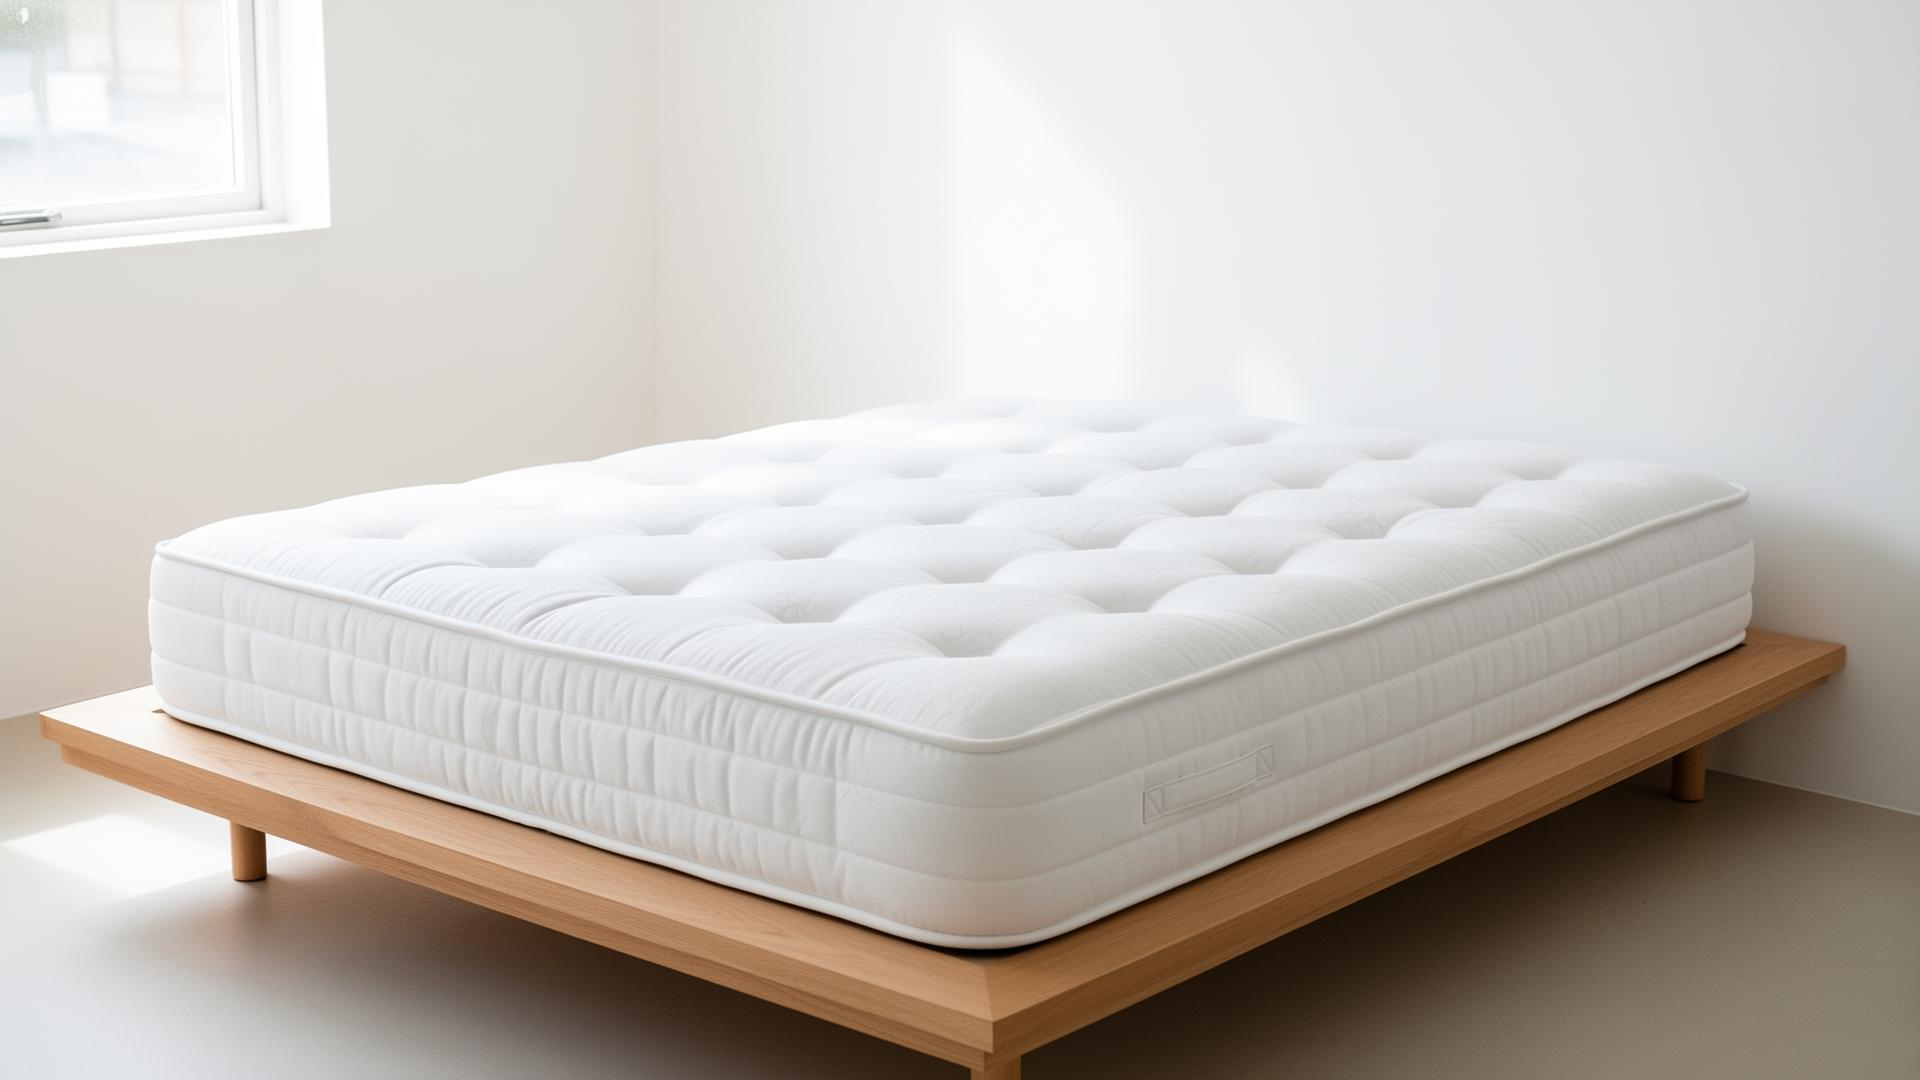
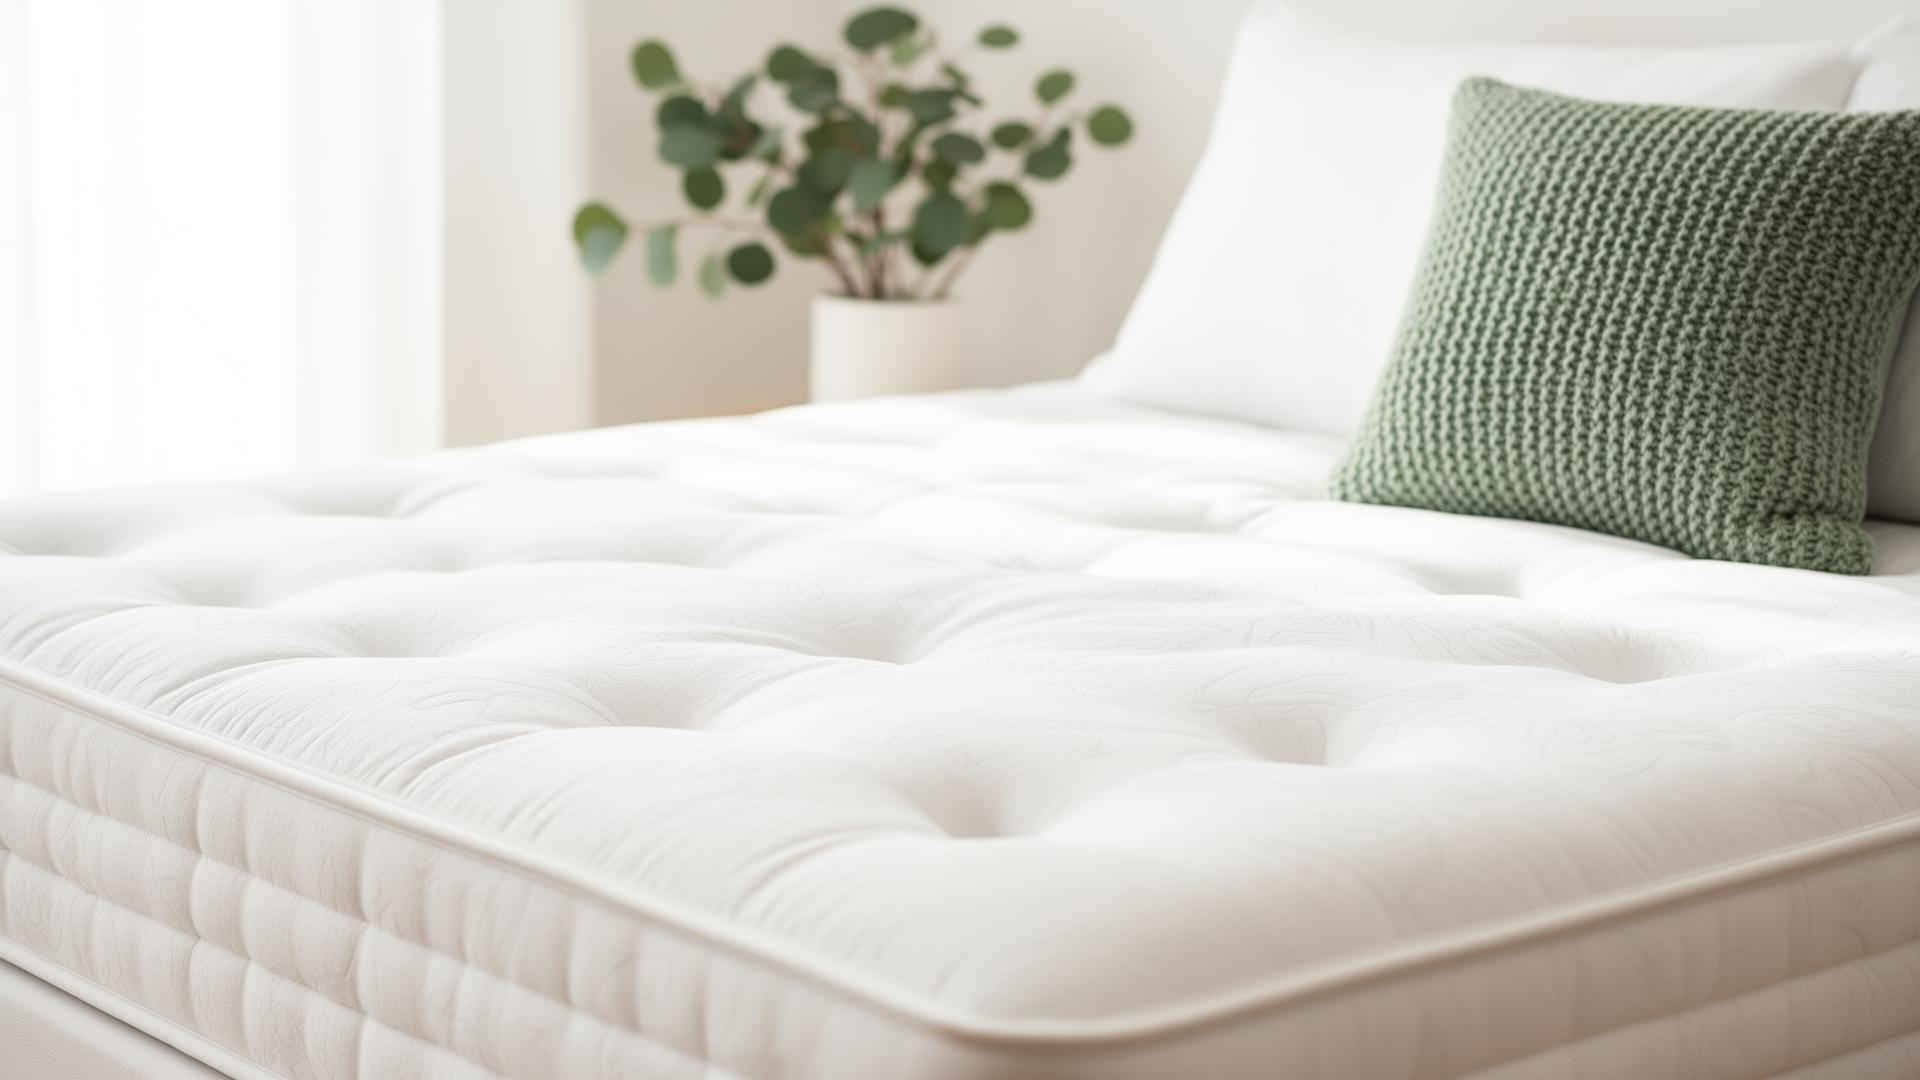
Changes

diff --git a/src/routes/index.tsx b/src/routes/index.tsx
@@ -82,10 +82,10 @@ function PublicBookingPage() {
       <SiteHeader />
 
       {/* Hero */}
-      <section className="relative overflow-hidden">
+      <section className="relative overflow-hidden pb-10">
         <div className="mx-auto grid max-w-3xl gap-6 px-4 pt-2 pb-8 sm:pt-4">
           <div className="relative">
-            <h1 className="text-4xl font-extrabold leading-[1.05] tracking-tight text-foreground sm:text-5xl">
+            <h1 className="text-5xl font-black leading-[1.02] tracking-[-0.03em] text-[color:var(--brand-green)] sm:text-6xl">
               FreshDream Booking
             </h1>
             <p className="mt-3 max-w-md text-base leading-relaxed text-muted-foreground sm:text-lg">
@@ -95,7 +95,7 @@ function PublicBookingPage() {
           <div className="relative overflow-hidden rounded-2xl shadow-[var(--shadow-soft)]">
             <img
               src={heroMattress}
-              alt="Freshly cleaned white tufted mattress in a bright airy bedroom"
+              alt="Pristine white tufted mattress with a textured sage-green pillow and a small potted plant in a bright airy bedroom"
               width={1600}
               height={900}
               className="aspect-[16/10] w-full object-cover"
@@ -107,6 +107,19 @@ function PublicBookingPage() {
             />
           </div>
         </div>
+        {/* Soft lime swoosh divider */}
+        <svg
+          aria-hidden="true"
+          className="pointer-events-none absolute inset-x-0 bottom-0 h-10 w-full"
+          viewBox="0 0 1440 80"
+          preserveAspectRatio="none"
+        >
+          <path
+            d="M0,40 C240,90 480,0 720,30 C960,60 1200,80 1440,40 L1440,80 L0,80 Z"
+            fill="var(--brand-lime)"
+            fillOpacity="0.22"
+          />
+        </svg>
       </section>
 
       <TrustBanner />

diff --git a/.lovable/plan.md b/.lovable/plan.md
@@ -1,31 +1,26 @@
-## Tastatur-Sync für den WhatsApp-FAB-Tooltip
+## Hero refinement plan
 
-Aktuell öffnet `onFocus` den Tooltip und `onBlur` schließt ihn. Es gibt aber keine Möglichkeit, den Tooltip per Tastatur **zu schließen, während der Fokus auf dem Button bleibt**, und `aria-expanded` kann dadurch „hängen bleiben" (Tooltip sichtbar, aber Nutzer:in will ihn weg, ohne den Fokus zu verlieren). Das gleichen wir an das Touch-Toggle-Verhalten an.
+### 1. New hero image (`src/assets/hero-mattress.jpg`)
+Regenerate via imagegen (overwriting the existing asset, same import path — no code import changes needed):
+- Bright, pristine all-white tufted mattress as the focal subject
+- Subtle textured sage/forest-green knit pillow resting on the corner
+- Small potted plant (monstera or eucalyptus sprig) softly out of focus in the background
+- Airy bedroom with soft natural daylight; warm but clean palette
+- 16:10, photographic, shallow depth of field
 
-### Verhalten nach der Änderung
+### 2. Lime swoosh divider
+Add an SVG curved wave at the bottom of the `<section>` hero in `src/routes/index.tsx`, positioned absolutely, full width, ~40px tall, very low opacity (~25%), filled with `var(--brand-lime)`. Sits just above `<TrustBanner />` as a soft visual handoff. Pointer-events disabled.
 
-| Eingabe | Aktion | `aria-expanded` |
-|---|---|---|
-| Tab/Fokus auf Button | Tooltip öffnet | `true` |
-| **Space** (auf Button) | Tooltip toggelt (auf/zu), **Link wird nicht aufgerufen** | wechselt |
-| **Enter** (auf Button) | Link wird geöffnet (Standard-Anchor-Verhalten), Tooltip schließt vorher | `false` |
-| **Escape** | Tooltip schließt, Fokus bleibt am Button | `false` |
-| Blur (Tab weiter) | Tooltip schließt | `false` |
+### 3. Headline emphasis
+In `src/routes/index.tsx` line 88, change the `h1` classes:
+- `font-extrabold` → `font-black`
+- `text-foreground` → explicit dark forest green (already `--foreground = --brand-green`, but tighten via `text-[color:var(--brand-green)]` to make intent explicit and add slightly tighter tracking)
+- Optional: bump to `text-5xl sm:text-6xl` for more presence
 
-Begründung: Enter aktiviert bei Links nativ den `href` — das ist die Erwartung von Screenreader-Nutzer:innen und sollte erhalten bleiben. Space hat bei `<a>` **keine** native Aktion, daher wird sie für das Toggeln des Tooltips frei und spiegelt damit das Touch-Tipp-Verhalten 1:1.
+### 4. No other changes
+TrustBanner, services, form, FAB stay untouched.
 
-### Änderungen in `src/components/StickyWhatsAppBar.tsx`
-
-- Neuen `onKeyDown`-Handler ergänzen:
-  - `e.key === " "` (Space): `e.preventDefault()`, dann `setOpen(prev => !prev)`. `suppressClickRef` nicht antasten (kein Klick).
-  - `e.key === "Escape"`: nur reagieren, wenn `open === true` → `setOpen(false)` und `e.stopPropagation()` (verhindert, dass z. B. ein übergeordneter Modal-Close getriggert wird).
-  - `e.key === "Enter"`: nicht abfangen, aber vorher `setOpen(false)`, damit `aria-expanded="false"` korrekt ist, bevor die Navigation erfolgt.
-- `onBlur` bleibt — falls Nutzer:in mit Tab weitergeht, schließt der Tooltip ohnehin.
-- `onFocus` bleibt — Fokus öffnet weiterhin.
-- `aria-expanded`, `aria-controls`, `aria-describedby` (bereits vorhanden) bleiben mit dem `open`-State synchron, da sie aus genau diesem State abgeleitet werden — kein zusätzlicher Code nötig.
-
-### Nicht im Scope
-
-- Keine Änderung an Position, Größe, Farbe oder WhatsApp-Nachricht des FAB.
-- Kein Hijacking von Enter (Link-Aktivierung bleibt nativ).
-- Kein Fokus-Trap — der Tooltip ist non-modal.
+### Technical notes
+- Image regeneration uses `imagegen--generate_image` with `standard` quality, `target_path: src/assets/hero-mattress.jpg`, `transparent_background: false`.
+- Update the `alt` text to mention the green pillow + plant for accessibility.
+- Swoosh is inline SVG (no new asset), uses semantic token `var(--brand-lime)`.
